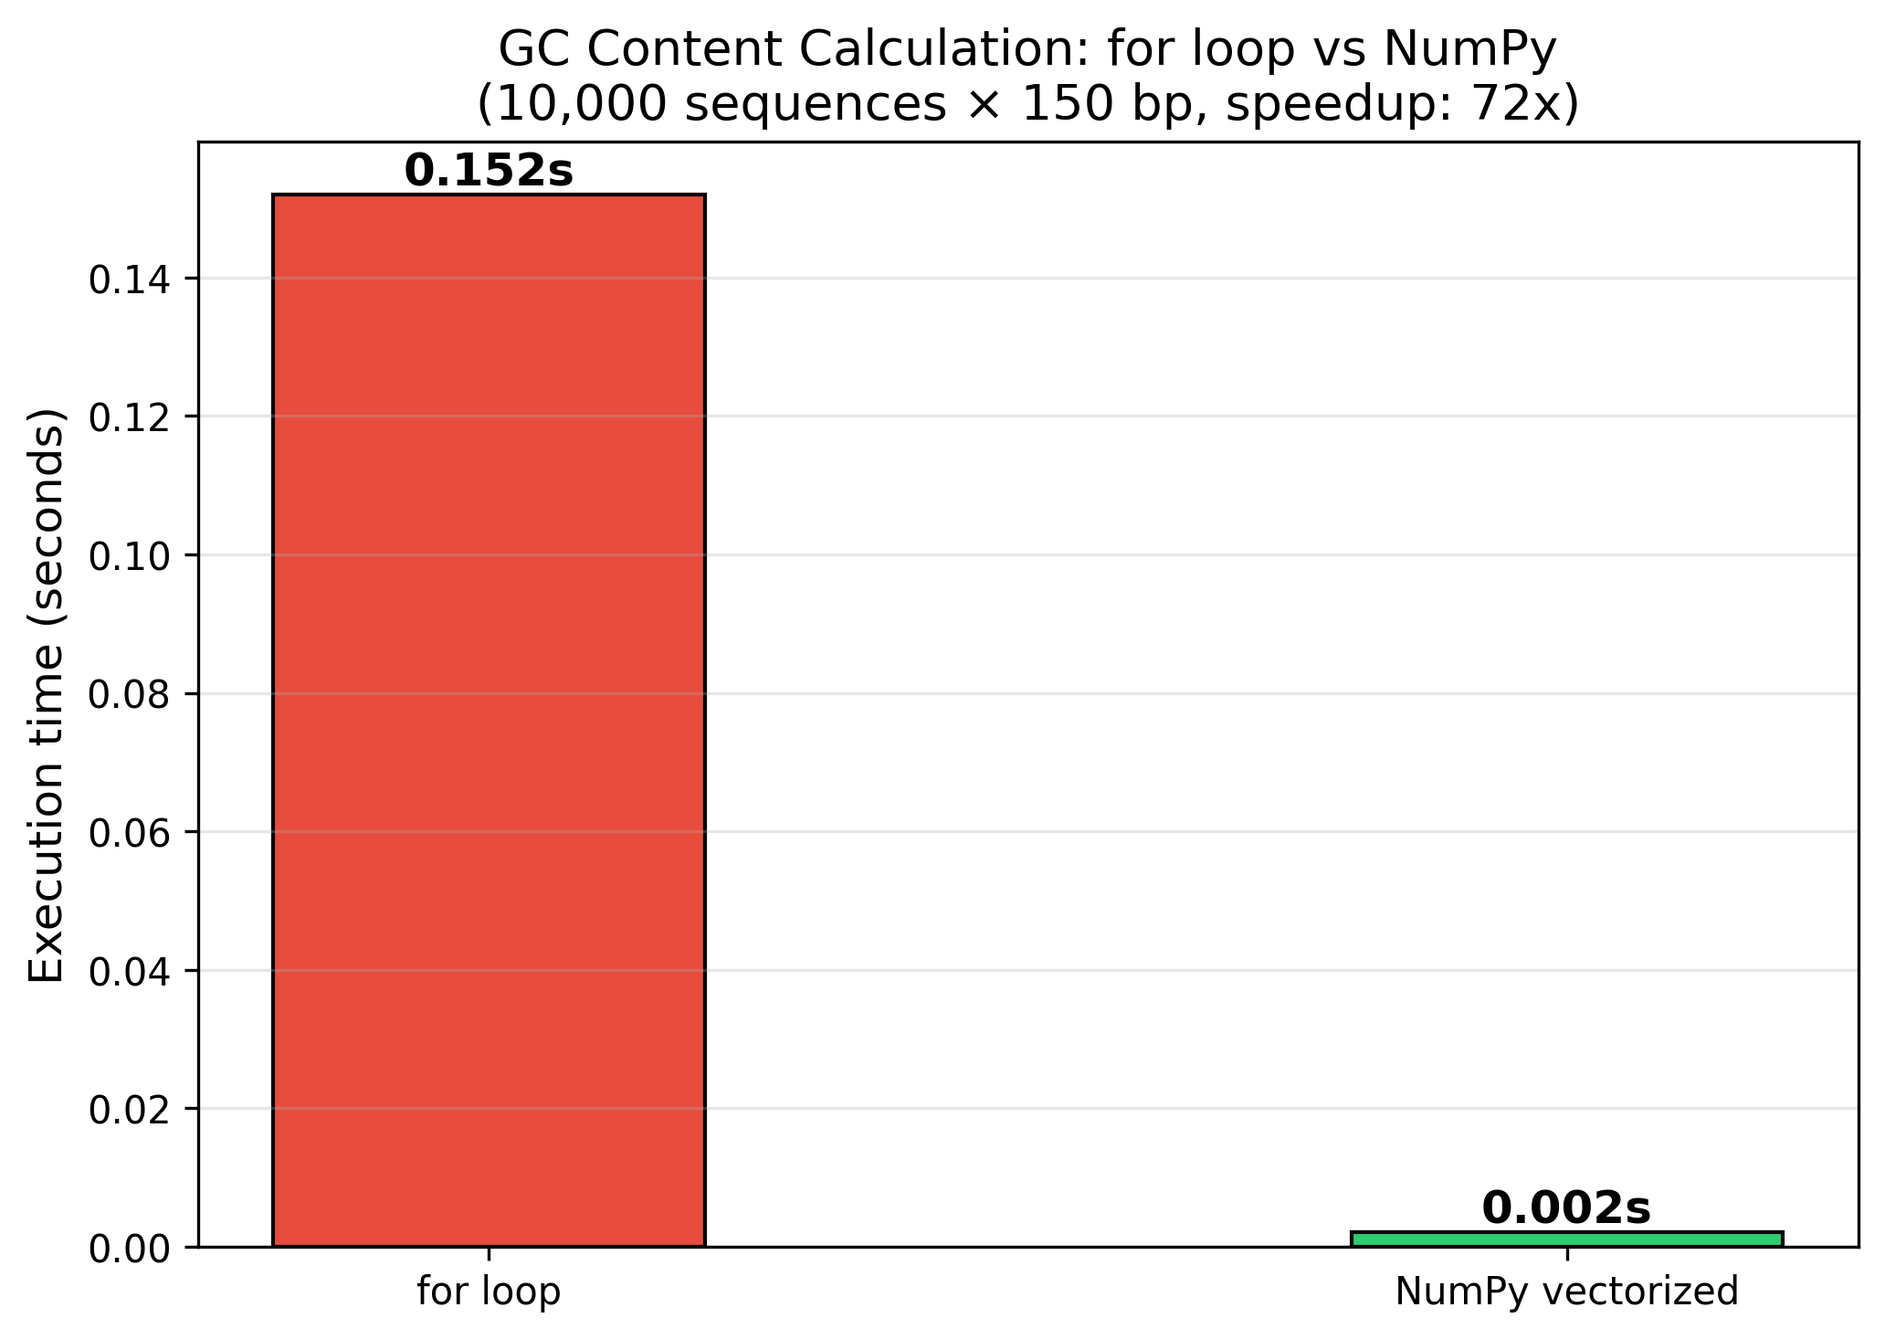
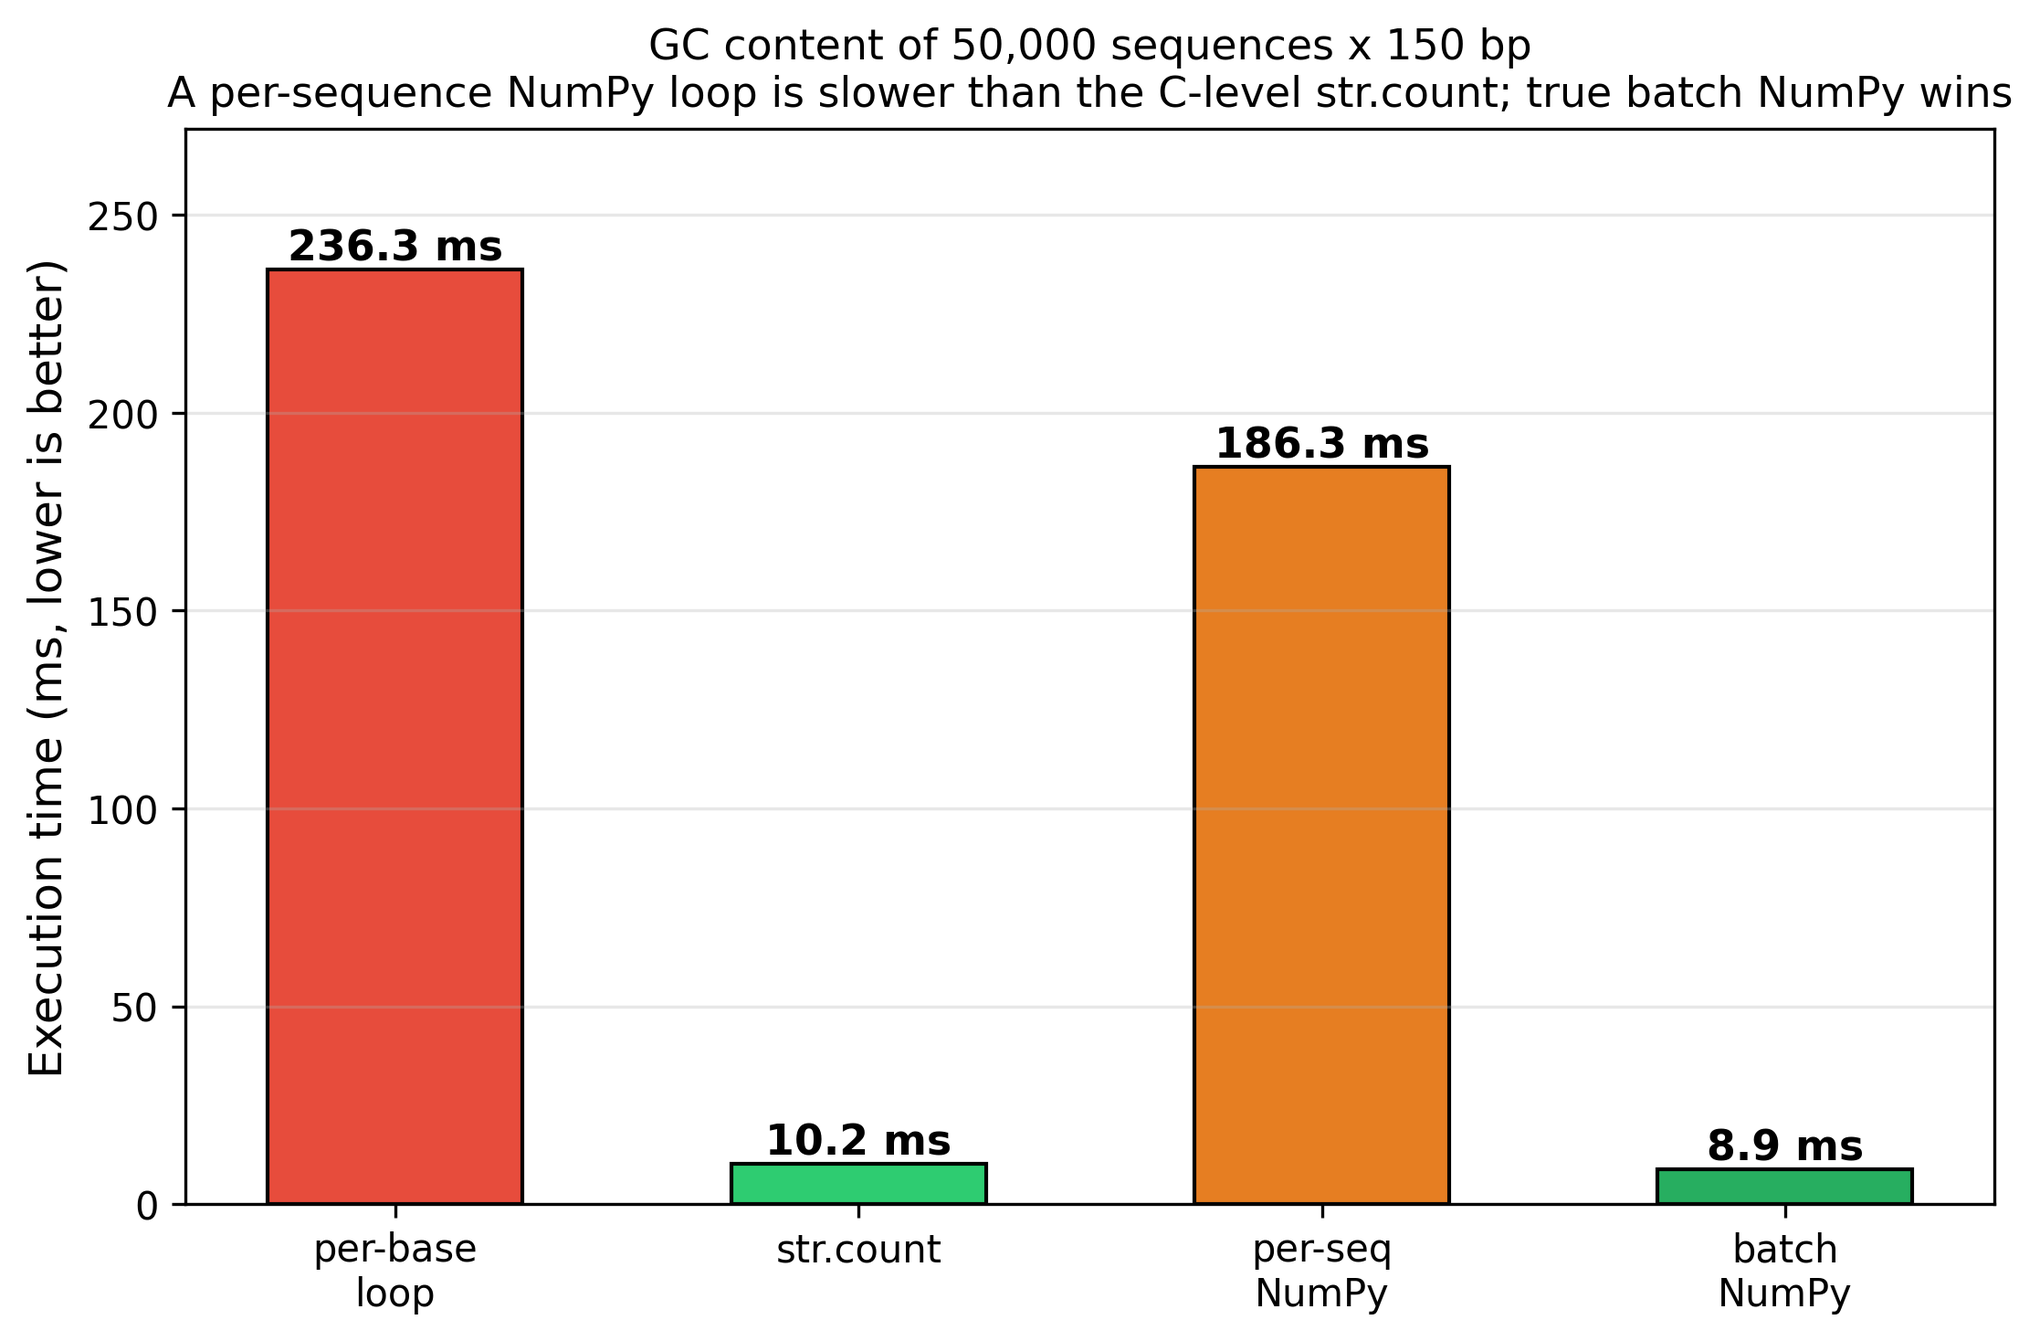
§12 ベクトル化の実例を実測に基づき修正（遅い例が命題を反証していた）
2026-07-19 更新レビュー最優先#5。本章の中心命題「forループを排除して
高速化」の実例が、命題と逆の結果になっていた。

実測（50,000配列×150bp、best of 5）:
- 本文が「遅い」とした str.count ループ: 約10 ms（実は str.count が
  C実装で既に速い）
- 本文が「高速」とした配列ごと np.frombuffer 版: 約130–190 ms
  （配列ごとのPythonループが残り、短い配列では変換の固定コストが支配的で
  str.count より一桁遅い）
- 図 ch12_vectorize_bench.png は本文と別コード（整数2D配列）を測っており
  読者が本文コードで72xを再現できなかった

修正:
- 「遅い」例を str.count ループ → 1塩基ずつのネストPythonループ（真に遅い）
  に変更
- str.count は既にC実装で速いという判断ポイントを新設。「forループを見たら
  NumPy化」という機械的提案の落とし穴を明示
- gc_content_vectorized を、全配列を連結して1回で判定し np.add.reduceat で
  境界ごとに集計する真の一括ベクトル化へ書き換え（可変長対応・既存テスト通過）
- 配列ごと np.frombuffer が罠である理由を本文に追加
- ベンチ図生成を本文と同じ関数を import して計測する4実装比較へ刷新し、
  図を再生成（per-base loop / str.count / per-seq NumPy / batch NumPy）
- 「速いコードと遅いコードを見分ける勘所」をレビュー観点として明記

検証: tests/ch12 47件通過、ruff クリーン、structure/xref 新規違反なし・broken 0。

Changed region(s): [[0.031, 0.0, 0.9922, 0.9823], [0.0, 0.1535, 0.093, 0.7981], [0.062, 0.7981, 0.093, 0.8595]]

diff --git a/scripts/ch12/plot_vectorize_bench.py b/scripts/ch12/plot_vectorize_bench.py
@@ -1,6 +1,16 @@
-"""ベクトル化 vs forループの性能比較棒グラフ (fig-12-01).
+"""GC含量計算の実測ベンチマーク棒グラフ (fig-12-01).
 
-NumPyベクトル化演算とforループの処理時間差を視覚化する。
+本文（§12-1）が示す4つの実装を実際に計測して比較する。ポイントは
+「NumPyを使えば速い」ではなく「配列ごとのPythonループを残すと、
+NumPyを使っても str.count より遅くなる」ことを可視化する点にある。
+
+- per-base loop : 1塩基ずつPythonのforループでGCを数える（最も遅い）
+- str.count     : 文字列組み込みメソッド（内部がC実装。既に速い）
+- per-seq NumPy : 配列ごとに np.frombuffer するループ版（罠。遅い）
+- batch NumPy   : 全配列を連結して1回で処理する真のベクトル化（速い）
+
+図と本文がずれないよう、batch NumPy は本文と同じ
+``scripts.ch12.numpy_vectorize.gc_content_vectorized`` を計測する。
 """
 
 import matplotlib
@@ -13,67 +23,100 @@ from pathlib import Path
 import matplotlib.pyplot as plt
 import numpy as np
 
+from scripts.ch12.numpy_vectorize import gc_content_vectorized
+
 FIGURES_DIR = Path(__file__).resolve().parents[2] / "figures"
 
 
-def benchmark_gc_calculation(n_sequences: int = 10_000, seq_length: int = 150) -> dict[str, float]:
-    """forループとベクトル化のGC含量計算ベンチマーク."""
-    rng = np.random.default_rng(42)
-    # ランダムな塩基配列を数値で表現 (A=0, T=1, G=2, C=3)
-    sequences = rng.integers(0, 4, size=(n_sequences, seq_length))
-
-    results: dict[str, float] = {}
-
-    # forループ版
-    start = time.perf_counter()
-    gc_loop = []
+def _gc_per_base_loop(sequences: list[str]) -> list[float]:
+    """1塩基ずつのネストしたPythonループ（最も遅い）."""
+    results = []
     for seq in sequences:
-        gc_count = 0
+        gc = 0
         for base in seq:
-            if base == 2 or base == 3:  # G or C
-                gc_count += 1
-        gc_loop.append(gc_count / seq_length)
-    results["for loop"] = time.perf_counter() - start
-
-    # NumPyベクトル化版
-    start = time.perf_counter()
-    np.mean((sequences == 2) | (sequences == 3), axis=1)
-    results["NumPy vectorized"] = time.perf_counter() - start
-
+            if base in ("G", "C"):
+                gc += 1
+        results.append(gc / len(seq))
     return results
 
 
-def plot_vectorize_bench(output_path: Path | None = None) -> plt.Figure:
-    """ベクトル化 vs forループのベンチマーク棒グラフを描画する."""
-    results = benchmark_gc_calculation()
+def _gc_str_count(sequences: list[str]) -> list[float]:
+    """str.count（内部がC実装のため、配列ごとのPythonループでも速い）."""
+    return [(s.count("G") + s.count("C")) / len(s) for s in sequences]
 
-    fig, ax = plt.subplots(figsize=(7, 5))
+
+def _gc_per_seq_numpy(sequences: list[str]) -> np.ndarray:
+    """配列ごとに np.frombuffer するループ版（ベクトル化に見えるが遅い）."""
+    results = np.empty(len(sequences), dtype=np.float64)
+    for i, seq in enumerate(sequences):
+        arr = np.frombuffer(seq.upper().encode("ascii"), dtype=np.uint8)
+        results[i] = ((arr == ord("G")) | (arr == ord("C"))).mean()
+    return results
+
+
+def _timed(fn, arg) -> float:
+    start = time.perf_counter()
+    fn(arg)
+    return time.perf_counter() - start
+
+
+def _best_ms(fn, arg, reps: int = 5) -> float:
+    """ベンチマーク: 数回計測して最小値（ミリ秒）を返す."""
+    fn(arg)  # ウォームアップ
+    return min(_timed(fn, arg) for _ in range(reps)) * 1000.0
+
+
+def benchmark_gc_calculation(
+    n_sequences: int = 50_000, seq_length: int = 150
+) -> dict[str, float]:
+    """4つのGC含量実装の処理時間（ミリ秒）を計測する."""
+    rng = np.random.default_rng(42)
+    bases = np.array(list("ATGC"))
+    sequences = [
+        "".join(bases[rng.integers(0, 4, size=seq_length)]) for _ in range(n_sequences)
+    ]
+    return {
+        "per-base\nloop": _best_ms(_gc_per_base_loop, sequences),
+        "str.count": _best_ms(_gc_str_count, sequences),
+        "per-seq\nNumPy": _best_ms(_gc_per_seq_numpy, sequences),
+        "batch\nNumPy": _best_ms(gc_content_vectorized, sequences),
+    }
+
+
+def plot_vectorize_bench(output_path: Path | None = None) -> plt.Figure:
+    """GC含量計算の4実装のベンチマーク棒グラフを描画する."""
+    n_sequences, seq_length = 50_000, 150
+    results = benchmark_gc_calculation(n_sequences, seq_length)
+
+    fig, ax = plt.subplots(figsize=(7.5, 5))
 
     methods = list(results.keys())
     times = list(results.values())
-    colors = ["#e74c3c", "#2ecc71"]
+    # 遅い実装は赤系、速い実装は緑系
+    colors = ["#e74c3c", "#2ecc71", "#e67e22", "#27ae60"]
 
-    bars = ax.bar(methods, times, color=colors, edgecolor="black", width=0.4)
+    bars = ax.bar(methods, times, color=colors, edgecolor="black", width=0.55)
 
     for bar, t in zip(bars, times):
         ax.text(
             bar.get_x() + bar.get_width() / 2,
             bar.get_height(),
-            f"{t:.3f}s",
+            f"{t:.1f} ms",
             ha="center",
             va="bottom",
-            fontsize=12,
+            fontsize=11,
             fontweight="bold",
         )
 
-    speedup = results["for loop"] / results["NumPy vectorized"]
-    ax.set_ylabel("Execution time (seconds)", fontsize=12)
+    ax.set_ylabel("Execution time (ms, lower is better)", fontsize=12)
     ax.set_title(
-        f"GC Content Calculation: for loop vs NumPy\n"
-        f"(10,000 sequences × 150 bp, speedup: {speedup:.0f}x)",
-        fontsize=13,
+        f"GC content of {n_sequences:,} sequences x {seq_length} bp\n"
+        "A per-sequence NumPy loop is slower than the C-level str.count; "
+        "true batch NumPy wins",
+        fontsize=11,
     )
     ax.grid(axis="y", alpha=0.3)
+    ax.margins(y=0.15)
 
     fig.tight_layout()
 

diff --git a/scripts/ch12/numpy_vectorize.py b/scripts/ch12/numpy_vectorize.py
@@ -4,10 +4,13 @@ import numpy as np
 
 
 def gc_content_vectorized(sequences: list[str]) -> np.ndarray:
-    """複数のDNA配列のGC含量をNumPyで一括計算する.
+    """複数のDNA配列のGC含量を、全配列を一括してNumPyで計算する.
 
-    forループで1配列ずつ処理する代わりに、バイト配列への変換と
-    ベクトル比較により高速に計算する。
+    配列を1つずつNumPy配列に変換する（配列ごとのPythonループが残る）と、
+    短い配列では変換の固定コストが支配的になり、かえって遅くなる。
+    ここでは全配列を1本のバイト列に連結し、GC判定を一度だけ行い、
+    ``np.add.reduceat`` で配列の境界ごとに合計を区切る。配列ごとの
+    Pythonループを持たない、真のベクトル化である。
 
     Parameters
     ----------
@@ -19,15 +22,19 @@ def gc_content_vectorized(sequences: list[str]) -> np.ndarray:
     np.ndarray
         各配列のGC含量（0.0〜1.0）。空配列の場合は 0.0。
     """
-    results = np.empty(len(sequences), dtype=np.float64)
-    for i, seq in enumerate(sequences):
-        if not seq:
-            results[i] = 0.0
-            continue
-        # バイト配列に変換してベクトル比較
-        arr = np.frombuffer(seq.upper().encode("ascii"), dtype=np.uint8)
-        gc_mask = (arr == ord("G")) | (arr == ord("C"))
-        results[i] = gc_mask.sum() / len(arr)
+    n = len(sequences)
+    results = np.zeros(n, dtype=np.float64)
+    lengths = np.fromiter((len(s) for s in sequences), dtype=np.int64, count=n)
+    if n == 0 or lengths.sum() == 0:
+        return results
+    # 全配列を連結して1つのバイト配列にし、GCを一度だけベクトル判定する
+    buffer = np.frombuffer("".join(sequences).upper().encode("ascii"), dtype=np.uint8)
+    is_gc = ((buffer == ord("G")) | (buffer == ord("C"))).astype(np.int64)
+    # 各配列の開始位置（空配列は境界が重複するため除外）で合計を区切る
+    nonempty = lengths > 0
+    starts = np.concatenate(([0], np.cumsum(lengths)[:-1]))
+    counts = np.add.reduceat(is_gc, starts[nonempty])
+    results[nonempty] = counts / lengths[nonempty]
     return results
 
 

diff --git a/chapters/12_data_processing.md b/chapters/12_data_processing.md
@@ -16,19 +16,34 @@
 
 ### forループの限界
 
-Pythonのforループは柔軟だが、大量のデータを処理するには遅い。たとえば、数千のDNA配列のGC含量を1つずつ計算するコードを考える:
+Pythonのforループは柔軟だが、大量のデータを処理するには遅い。たとえば、数万のDNA配列のGC含量を、1塩基ずつPythonのforループで数えるコードを考える:
 
 ```python
-# forループ版 — 遅い
-def gc_contents_loop(sequences: list[str]) -> list[float]:
+# 1塩基ずつ数える — 最も遅い
+def gc_contents_slow(sequences: list[str]) -> list[float]:
     results = []
     for seq in sequences:
-        gc = (seq.count("G") + seq.count("C")) / len(seq)
-        results.append(gc)
+        gc = 0
+        for base in seq:          # 塩基1つずつのPythonループが重い
+            if base in ("G", "C"):
+                gc += 1
+        results.append(gc / len(seq))
     return results
 ```
 
-これは正しく動くが、配列数が数万〜数十万になると実行時間が問題になる。
+配列数が数万〜数十万になると、この二重ループ（配列 × 塩基）はインタプリタのオーバーヘッドが積み重なり、実行時間の大きなボトルネックになる。
+
+### 高速化の前に — すでにC実装の道具がないか
+
+ここで一足飛びにNumPyへ行く前に、確認すべきことがある。**その処理に、すでにC言語で実装された組み込みメソッドがないか**である。GC含量なら `str.count()` がまさにそれで、文字列の走査をCレベルで行う:
+
+```python
+# str.count は内部がC実装 — Pythonループは配列ごとに1回だけ
+def gc_contents_count(sequences: list[str]) -> list[float]:
+    return [(seq.count("G") + seq.count("C")) / len(seq) for seq in sequences]
+```
+
+`str.count()` は塩基1つずつのPythonループを持たないため、先ほどの二重ループより一桁以上速い。ここが重要な判断ポイントである。**組み込みメソッドがすでにCで実装されている処理は、無理にNumPy化しても速くならず、むしろ遅くなることがある**（この点はこの後、実例で確かめる）。AIエージェントは「forループを見たらNumPy化」と機械的に提案しがちだが、`str.count` のようなC実装の走査は、そのままのほうが速いことが多い。
 
 ### ベクトル化とは何か
 
@@ -41,28 +56,46 @@ def gc_contents_loop(sequences: list[str]) -> list[float]:
 
 ### バイオインフォでの実践: GC含量の一括計算
 
-[§8 テスト技法](./08_testing.md)で作成した `gc_content()` 関数は1配列ずつ処理する設計だった。NumPyを使えば、複数配列をまとめて処理できる:
+では、NumPyのベクトル化が本当に効くのはどこか。鍵は **配列ごとのPythonループを残さない** ことである。よくある失敗は、配列を1つずつNumPy配列に変換してしまうことだ:
 
 ```python
 import numpy as np
 
-def gc_content_vectorized(sequences: list[str]) -> np.ndarray:
-    """複数のDNA配列のGC含量をNumPyで一括計算する."""
+# 一見ベクトル化に見えるが遅い — 配列ごとのPythonループが残っている
+def gc_content_per_seq(sequences: list[str]) -> np.ndarray:
     results = np.empty(len(sequences), dtype=np.float64)
-    for i, seq in enumerate(sequences):
-        if not seq:
-            results[i] = 0.0
-            continue
-        # np.frombuffer()でDNA配列を1文字ずつのバイト配列（各文字のASCIIコード値）に変換する。
-        # ord("G")はG文字のASCIIコード値（71）を返し、配列全体との一致判定を
-        # ベクトル化演算で行うことで、forループより大幅に高速化される。
+    for i, seq in enumerate(sequences):        # このループが残っている
         arr = np.frombuffer(seq.upper().encode("ascii"), dtype=np.uint8)
-        gc_mask = (arr == ord("G")) | (arr == ord("C"))
-        results[i] = gc_mask.sum() / len(arr)
+        results[i] = ((arr == ord("G")) | (arr == ord("C"))).mean()
     return results
 ```
 
-ポイントは `np.frombuffer()` で文字列をバイト配列に変換し、`==` 演算子でベクトル比較している点である。各文字をforループで比較する代わりに、配列全体に対する一括比較を行っている。
+この版は、配列1つごとに `.encode()` / `np.frombuffer()` / 比較 / `.mean()` の固定コストを払う。150塩基のような短い配列ではこの固定コストが支配的になり、**先ほどの `str.count` 版よりむしろ遅い**（本節冒頭の図で計測値を示した）。NumPyの関数を呼んでいても、Pythonループが1配列ごとに回っている限り「ベクトル化」にはなっていない。
+
+真のベクトル化は、**全配列をまとめて1回の演算で処理する** ことである。全配列を1本のバイト列に連結してGC判定を一度だけ行い、`np.add.reduceat()` で配列の境界ごとに合計を区切る:
+
+```python
+def gc_content_vectorized(sequences: list[str]) -> np.ndarray:
+    """全配列を1本のバッファに連結し、1回のベクトル演算でGC含量を求める."""
+    n = len(sequences)
+    results = np.zeros(n, dtype=np.float64)
+    lengths = np.fromiter((len(s) for s in sequences), dtype=np.int64, count=n)
+    if n == 0 or lengths.sum() == 0:
+        return results
+    # 全配列を連結し、GCかどうかを配列全体に対して一度だけ判定する
+    buffer = np.frombuffer("".join(sequences).upper().encode("ascii"), dtype=np.uint8)
+    is_gc = ((buffer == ord("G")) | (buffer == ord("C"))).astype(np.int64)
+    # 各配列の開始位置で区切って合計する（reduceat が境界ごとの部分和を返す）
+    nonempty = lengths > 0
+    starts = np.concatenate(([0], np.cumsum(lengths)[:-1]))
+    counts = np.add.reduceat(is_gc, starts[nonempty])
+    results[nonempty] = counts / lengths[nonempty]
+    return results
+```
+
+GC判定を全配列に対して一度だけ行い、`np.add.reduceat()` で配列ごとの合計に区切っている。配列ごとのPythonループが消えるため、数万配列でも `str.count` 版と同等かそれ以上に速い。なお、配列長がそろっている場合（同じ長さのリードなど）は、連結せずに `(配列数, 長さ)` の2次元配列へ `reshape` し、`axis=1` で集計するほうが単純でさらに速い。
+
+**この節の教訓**: 「forループがある＝NumPy化で速くなる」とは限らない。`str.count` のようにC実装の組み込みメソッドで済む処理はそのまま使い、NumPyは **配列ごとのループを消して一括処理できるとき** に使う。エージェントが「ベクトル化しました」と言っても、コードに配列ごとの `for` が残っていないかをレビューで確かめる——これが速いコードと遅いコードを見分ける勘所である。
 
 ### ブロードキャスティング
 
